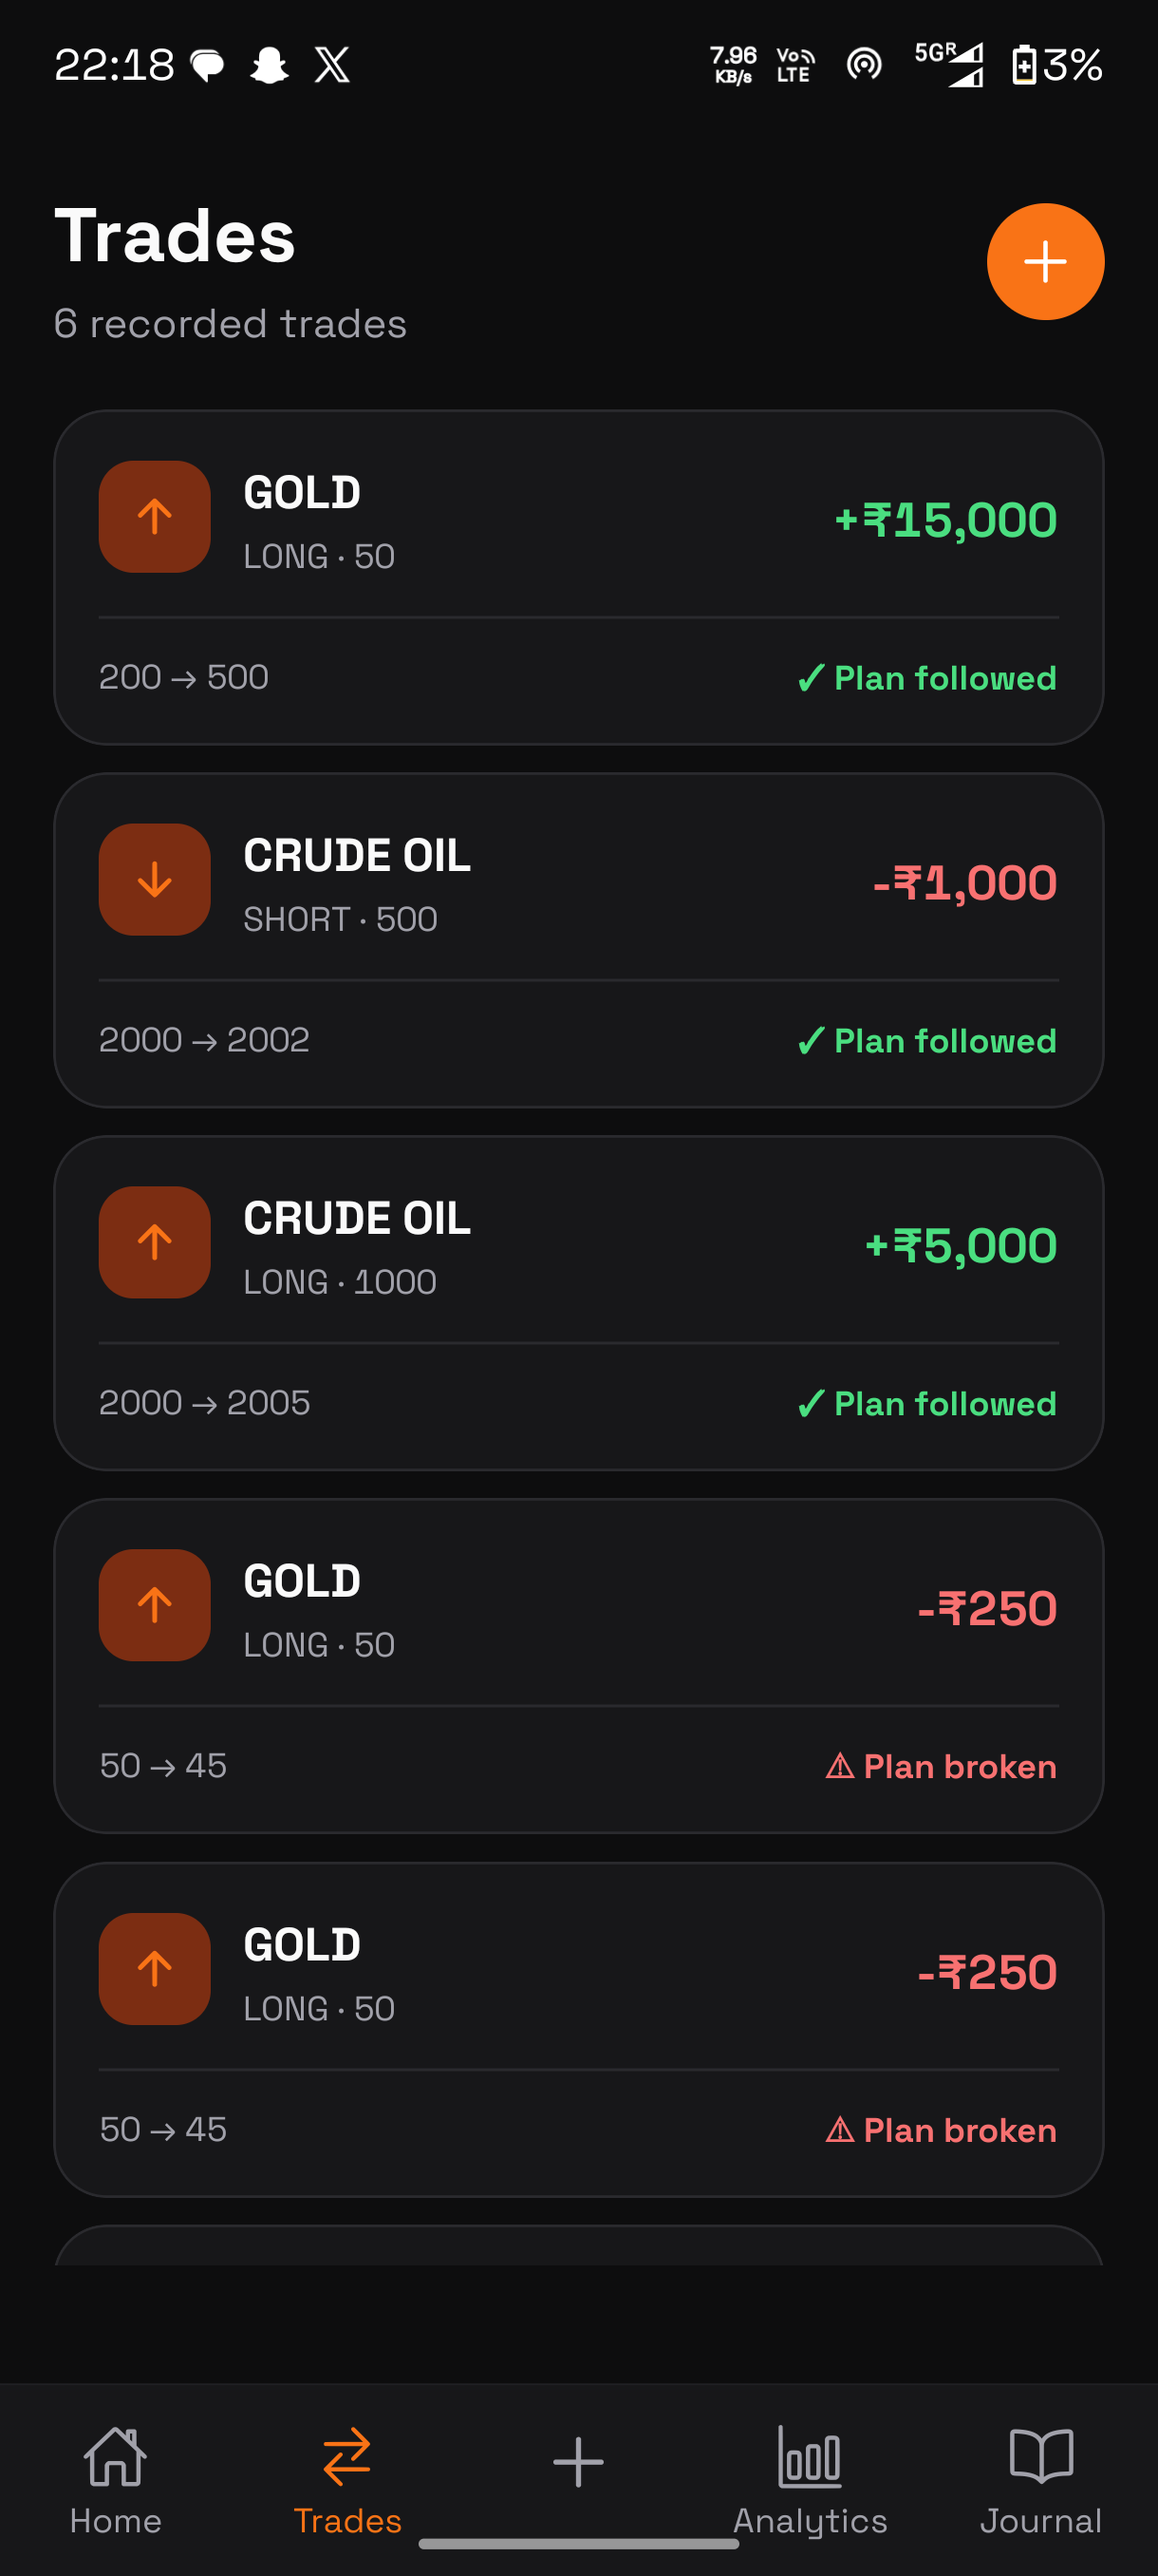
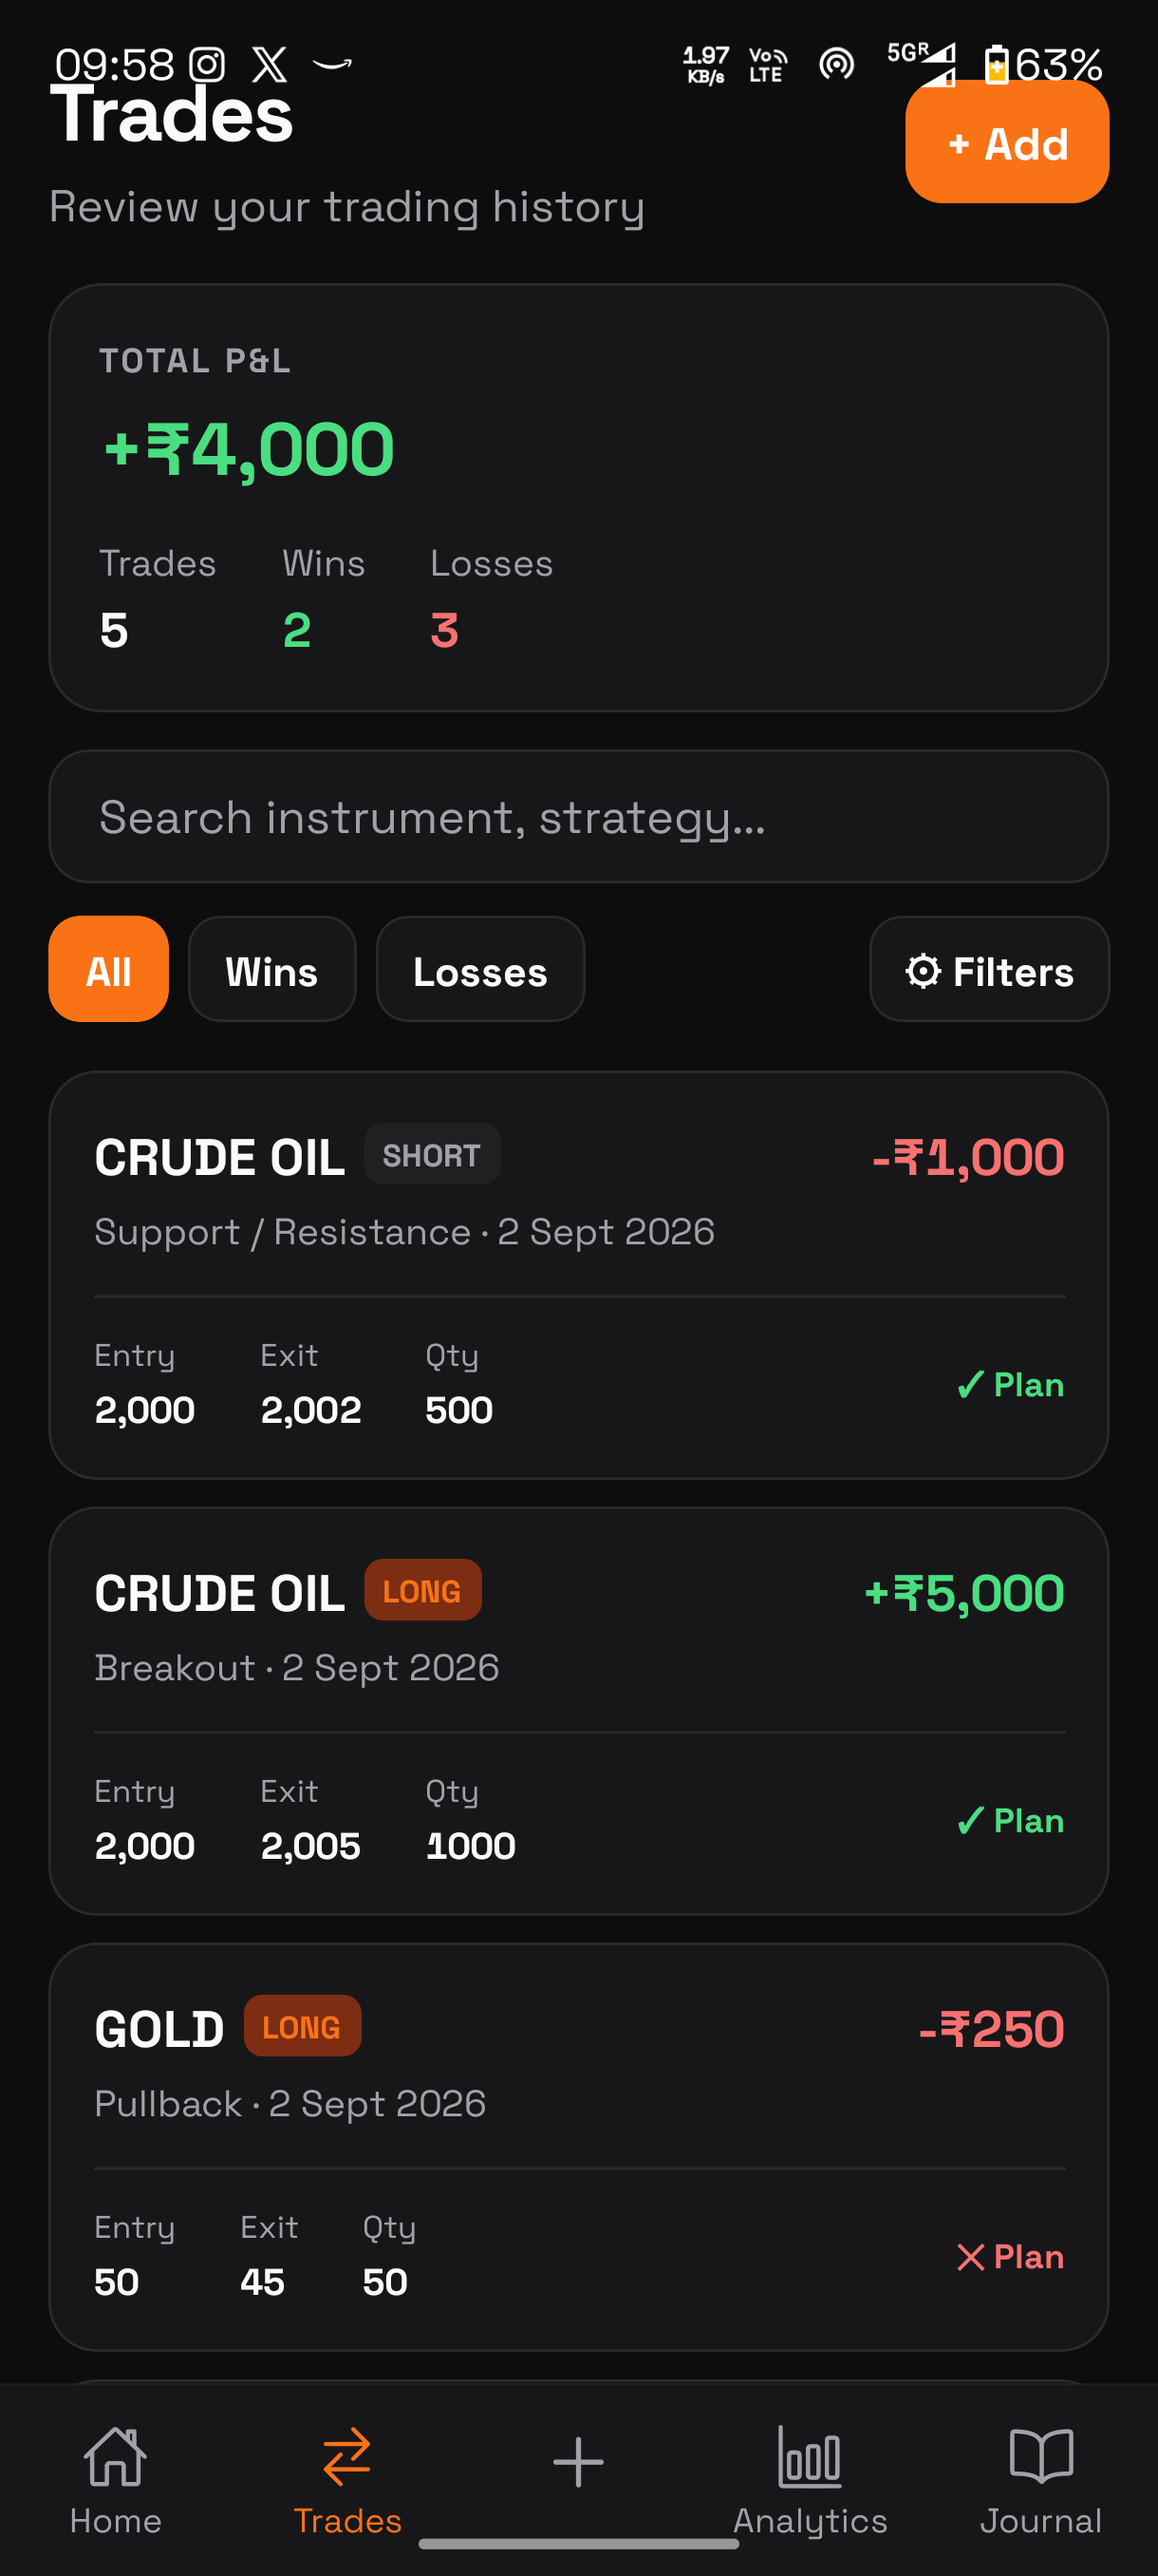
redme.md updated

diff --git a/README.md b/README.md
@@ -4,25 +4,41 @@
   <tr>
     <td align="center" width="33.33%"><b>Dashboard (Main View)</b></td>
     <td align="center" width="33.33%"><b>Dashboard (Scrolled)</b></td>
-    <td align="center" width="33.33%"><b>Trades list</b></td>
   </tr>
   <!-- Images Row 1 -->
   <tr>
-    <td><img src="assets/screenshots/Dashboard.png" width="100%" alt="Dashboard Main"></td>
+    <td><img  src="assets/screenshots/Dashboard.png" width="100%" alt="Dashboard Main"></td>
     <td><img src="assets/screenshots/Dashboard_1.png" width="100%" alt="Dashboard Analytics"></td>
-    <td><img src="assets/screenshots/Trades.png" width="100%" alt="Trades Page"></td>
   </tr>
   <!-- Headers Row 2 -->
   <tr>
-    <td align="center"><b>Add Trade Form</b></td>
-    <td align="center"><b>Add Trade Scrolled</b></td>
-    <td></td>
+    <td align="center"><b>Trades list</b></td>
+    <td align="center"><b>Trade Filters</b></td>
   </tr>
   <!-- Images Row 2 -->
   <tr>
+    <td><img src="assets/screenshots/Trades.png" width="100%" alt="Trades Page"></td>
+    <td><img src="assets/screenshots/Trades_Filters.png" width="100%" alt="Add Trade Confirmation"></td>
+  </tr>
+  <!-- Headers Row 3 -->
+  <tr>
+    <td align="center"><b>Add Trade Form</b></td>
+    <td align="center"><b>Add Trade Scrolled</b></td>
+  </tr>
+  <!-- Images Row 3 -->
+  <tr>
     <td><img src="assets/screenshots/Add_Trade.png" width="100%" alt="Add Trade Form"></td>
-    <td><img src="assets/screenshots/Add_Trade_1.png" width="100%" alt="Add Trade Confirmation"></td>
-    <td></td>
+    <td><img src="assets/screenshots/Add_Trade_1.png" width="100%" alt="Add Trade Confirmation"></td
+  </tr>
+  <!-- Headers Row 4 -->
+   <tr>
+    <td align="center"><b>Analytics</b></td>
+    <td align="center"><b>Analytics Scrolled</b></td>
+  </tr>
+  <!-- Images Row 4 -->
+  <tr>
+    <td><img src="assets/screenshots/Analytics.png" width="100%" alt="Add Trade Form"></td>
+    <td><img src="assets/screenshots/Analytics_scrolled.png" width="100%" alt="Add Trade Confirmation"></td>
   </tr>
 </table>
 
